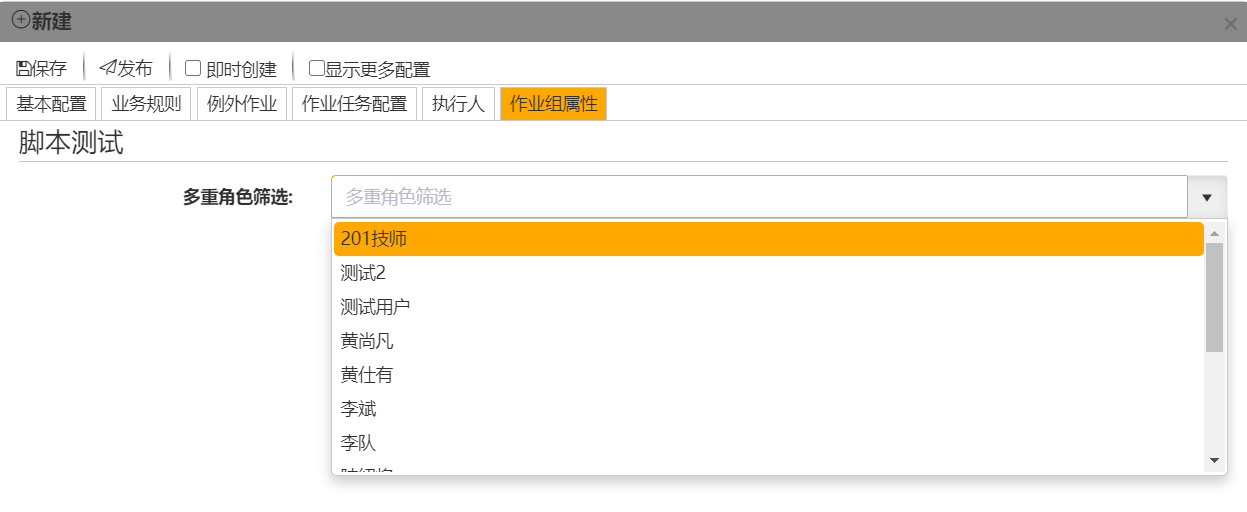
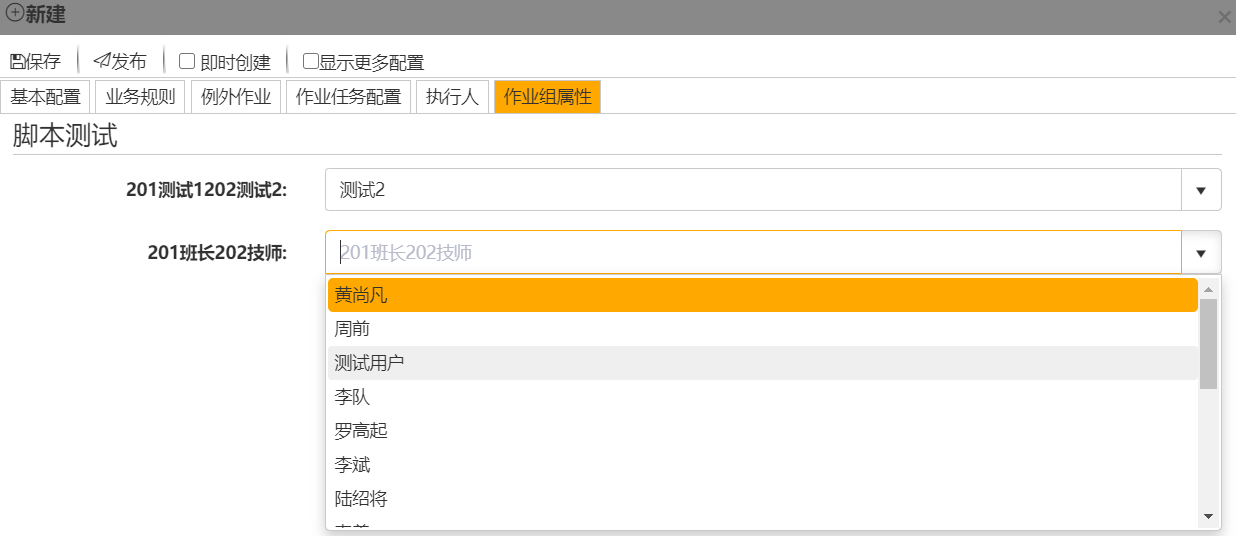
扩展例子更新

Changed region(s): [[0.0, 0.0, 1.0, 0.75], [0.246, 0.7812, 0.9838, 1.0]]

diff --git a/docs/系统扩展指南/扩展例子.md b/docs/系统扩展指南/扩展例子.md
@@ -456,115 +456,33 @@ return true;
 
 ```js
 var resultName = ScriptEngine.GetResultName();
-console.log(11);
-var orgUnitNames = ['a', 'b']; //组织单元名
-var postIDs = ['69887a1f-9e15-4e0b-8197-dc81e38b3608', '4e7dabd6-8d6a-4cd6-a9b9-d7cd1d1f5eb3']; //维修、班长
-
-var orgUnitsObj = {};
-function getOrgUnitIDs(_orgUnitName, _callback) {
-    ScriptEngine.GetOrgUnits(_orgUnitName, true, false, function (_list) {
-        var orgUnitIDs = [];
-        orgUnitsObj[_orgUnitName] = [];
-        if (_list && _list.length > 0) {
-            orgUnitIDs.push(_list[0].ID);
-            for(var i=0;i<_list.length;i++){
-                orgUnitsObj[_orgUnitName].push(_list[i].ID);
-            }
-        }
-        _callback(orgUnitIDs);
-    })
-}
-
-function getUsersByOrgUnitName(_orgUnitName, _usersByOnePostID, _callback) {
-    getOrgUnitIDs(_orgUnitName, function (_orgUnitIDs) {
-        if (_orgUnitIDs && _orgUnitIDs.length > 0) {
-            var users = [];
-            function getOne(index) {
-                if (index >= _orgUnitIDs.length) {
-                    _callback(users);
-                } else {
-                    ScriptEngine.GetAjaxToApiServer('UserConfig', 'GetByOrgUnitID', 'orgUnitID=' + _orgUnitIDs[index], '', 'get', function (_usersByOrgUnitID) {
-                        if (_usersByOrgUnitID && _usersByOrgUnitID.length > 0) {
-                            for (var i = 0; i < _usersByOrgUnitID.length; i++) {
-                                var user = _usersByOrgUnitID[i];
-                                var find = users.find(function (_item) { return _item.ID == user.ID });
-                                var findByPost = _usersByOnePostID.find(function (_item) { return _item.ID == user.ID });
-                                if (findByPost && !find) {
-                                    users.push(user);
-                                }
-                            };
-                        }
-                        index++;
-                        getOne(index);
-                    });
-                }
-            }
-            getOne(0);
-        } else {
-            _callback([]);
-        }
-    })
-}
-var judgeByRoles = function (_users, _postID, _orgUnitName, _callback) {
-    var users = [];
-    if (_users && _users.length > 0) {
-        var judgeOne = function (_index) {
-            if (_index >= _users.length) {
-                _callback(users);
-                return;
-            }
-            ScriptEngine.GetAjaxToApiServer('UserConfig', 'GetRoles', 'userID=' + _users[_index].ID, '', 'get', function (_roles) {
-                if (_roles && _roles.length > 0) {
-                    var find = _roles.find(function (_item) { return _item.RelatedPost && _item.RelatedPost.ID == _postID && _item.RelatedOrgUnit && orgUnitsObj[_orgUnitName] &&  orgUnitsObj[_orgUnitName].indexOf(_item.RelatedOrgUnit.ID)>-1});
-                    if (find) {
-                        users.push(_users[_index]);
-                    }
-                }
-                _index++;
-                judgeOne(_index);
-            })
-        }
-        judgeOne(0);
-    } else {
-        _callback(users);
-    }
-}
-
+var orgUnitNames = ['201车间', '202车间']; //组织单元名
+var postIDs = ['48f637c4-c4d2-422a-ae51-16364ab8838b', '65eb1faa-b1ae-4e63-8636-0b92eb35051b'];  //班长、技师
 var users = [];
-var getOneCombinationUsers = function (_index) {
-    if (_index >= postIDs.length > 0) {
-        ScriptEngine[resultName] = users;
-        return;
+if (orgUnitNames && orgUnitNames.length > 0 && postIDs && postIDs.length > 0 && orgUnitNames.length == postIDs.length) {
+    var sql = 'select distinct [User].ID, [User].BI_Name UserName  from UserRoleGroup left join[User] on UserRoleGroup.UserID = [User].ID and[User].AI_Deleted = \'0\'\ left join OrgUnit ChildOrgUnit on ChildOrgUnit.ID = UserRoleGroup.OrgUnitID and ChildOrgUnit.AI_Deleted = \'0\'\ left join H_OrgUnitRelation on H_OrgUnitRelation.ID = UserRoleGroup.OrgUnitID left join OrgUnit ParentOrgUnit on ParentOrgUnit.ID = H_OrgUnitRelation.ParentID and ParentOrgUnit.AI_Deleted = \'0\' where ';
+    for (var i = 0; i < orgUnitNames.length; i++) {
+        sql += '((ParentOrgUnit.BI_Name=\'' + orgUnitNames[i] + '\' or  ChildOrgUnit.BI_Name=\'' + orgUnitNames[i] + '\') and UserRoleGroup.RoleID =\''  + postIDs[i] + '\')';
+        if (i != orgUnitNames.length - 1) {
+            sql += ' or ';
+        }
     }
-    var postID = postIDs[_index];
-    var orgUnitName = orgUnitNames[_index];
-    //获取该岗位的所有人员
-    ScriptEngine.GetAjaxToApiServer('UserConfig', 'GetByPostID', 'postID=' + postID, '', 'get', function (_usersByPostID) {
-        //获取属于该组织单元的所有人员
-        getUsersByOrgUnitName(orgUnitName, _usersByPostID, function (_usersByOrgUnitName) {
-            judgeByRoles(_usersByOrgUnitName, postID, orgUnitName, function (_filterUsers) {
-                if (_filterUsers && _filterUsers.length > 0) {
-                    for (var i = 0; i < _filterUsers.length; i++) {
-                        var user = _filterUsers[i];
-                        var find = users.find(function (_item) { return _item.ID == user.ID });
-                        if (!find) {
-                            users.push(user);
-                        }
-                    }
-                }
-                _index++;
-                getOneCombinationUsers(_index);
-            })
-        })
-    })
+    ScriptEngine.GetAjaxToApiServer('Sql', 'GetDataSetBySQL', 'sql=' + sql, null, 'POST', function (_result) {
+        if (_result && _result.Rows && _result.Rows.length > 0) {
+            for (var i = 0; i < _result.Rows.length; i++) {
+                users.push({ ID: _result.Rows[i].Cells[0], Name: _result.Rows[i].Cells[1] });
+            }
+            ScriptEngine[resultName] = users;
+        } else {
+            ScriptEngine[resultName] = users;
+        }
+    });
+} else {
+    ScriptEngine[resultName] = users;
 }
-
-getOneCombinationUsers(0);
-
 return { 'ResultName': resultName };
-
 ```
 
-* 效果如图 
+* 效果如图
 
   <img alt=" " src={useBaseUrl('docimg/jiaoben11.png')} />
